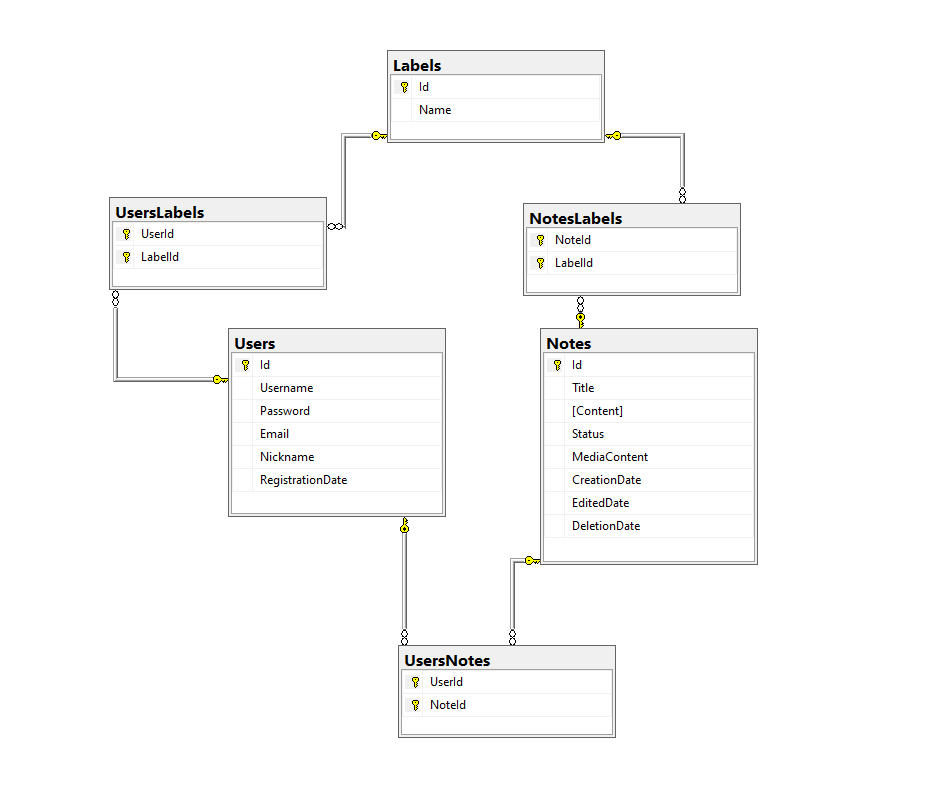
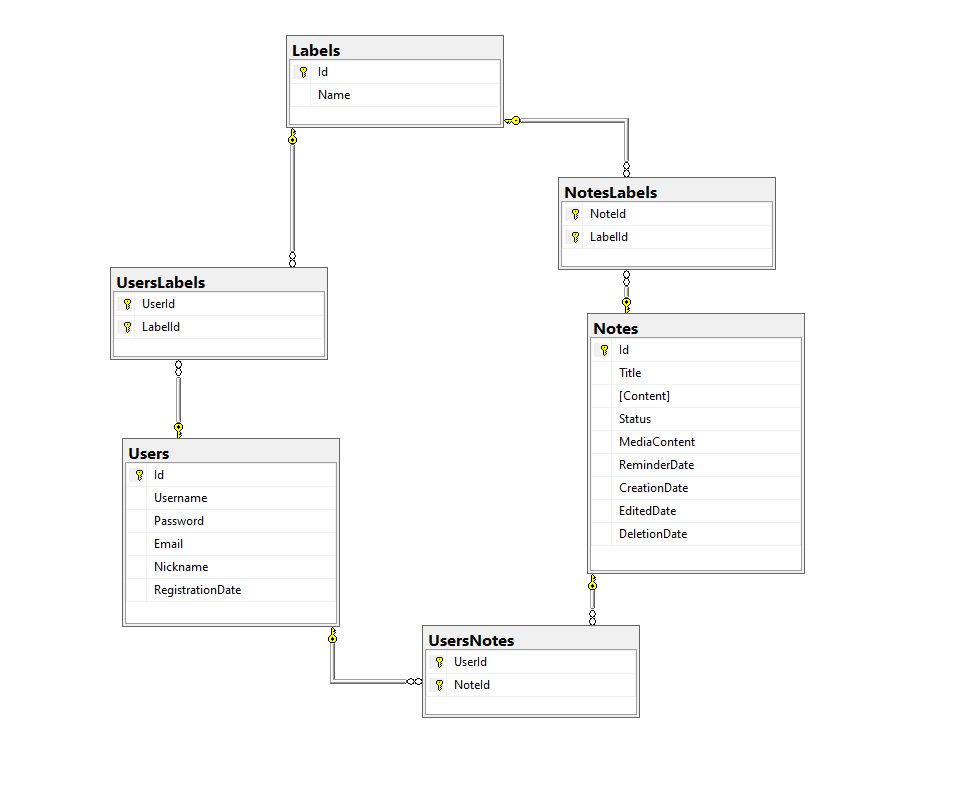
adding "ReminderDate"
adding the "ReminderDate" field to the "Notes" table, as well as changing all relevant files in the rest of the project

Changed region(s): [[0.0927, 0.0311, 0.8339, 0.9017], [0.4015, 0.6219, 0.4324, 0.6841], [0.2162, 0.5286, 0.2471, 0.5908]]

diff --git a/src/Lib/DB/UNotionsDB.cs b/src/Lib/DB/UNotionsDB.cs
@@ -115,13 +115,14 @@ namespace UNotions_Lib.DB
 
 
 		#region Editing Data (Notes)
-		public async Task<Note?> AddNote(string title, string content, Status status, string mediaContent, DateTime creationDate, DateTime editedDate, DateTime deletionDate, int userId)
+		public async Task<Note?> AddNote(string title, string content, Status status, string mediaContent, DateTime reminderDate, DateTime creationDate, DateTime editedDate, DateTime deletionDate, int userId)
 		{
 			Note note = new()
 			{
 				Title = title,
 				Content = content,
 				Status = status,
+				ReminderDate = reminderDate,
 				MediaContent = mediaContent,
 				CreationDate = creationDate,
 				EditedDate = editedDate,
@@ -134,6 +135,7 @@ namespace UNotions_Lib.DB
 				note.Title,
 				note.Content,
 				note.Status,
+				note.ReminderDate,
 				note.MediaContent,
 				note.CreationDate, 
 				note.EditedDate,
@@ -157,6 +159,7 @@ namespace UNotions_Lib.DB
 				note.Title,
 				note.Content,
 				note.Status,
+				note.ReminderDate,
 				note.MediaContent,
 				note.CreationDate,
 				note.EditedDate,

diff --git a/src/Lib/Models/Note.cs b/src/Lib/Models/Note.cs
@@ -17,6 +17,7 @@ namespace UNotions_Lib.Models
 		private string? _content;
 		private string? _mediaContent;
 		private Status _status;
+		private DateTime _reminderDate;
 		private DateTime _creationDate;
 		private DateTime _editedDate;
 		private DateTime _deletionDate;
@@ -51,6 +52,12 @@ namespace UNotions_Lib.Models
 		{
 			get { return _status; }
 			set { SetProperty(ref _status, value, nameof(Status)); }
+		}
+
+		public DateTime ReminderDate
+		{
+			get { return _reminderDate; }
+			set { SetProperty(ref _reminderDate, value, nameof(ReminderDate)); }
 		}
 
 		public DateTime CreationDate
